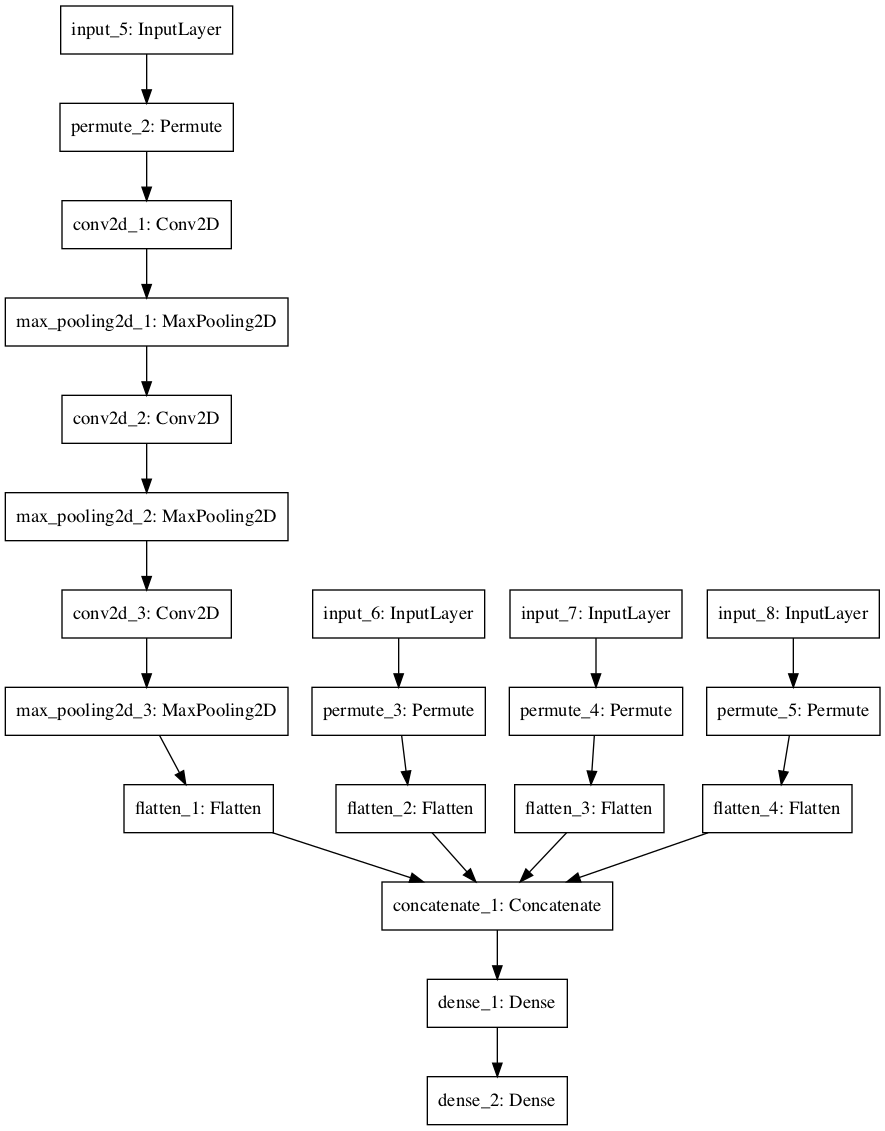
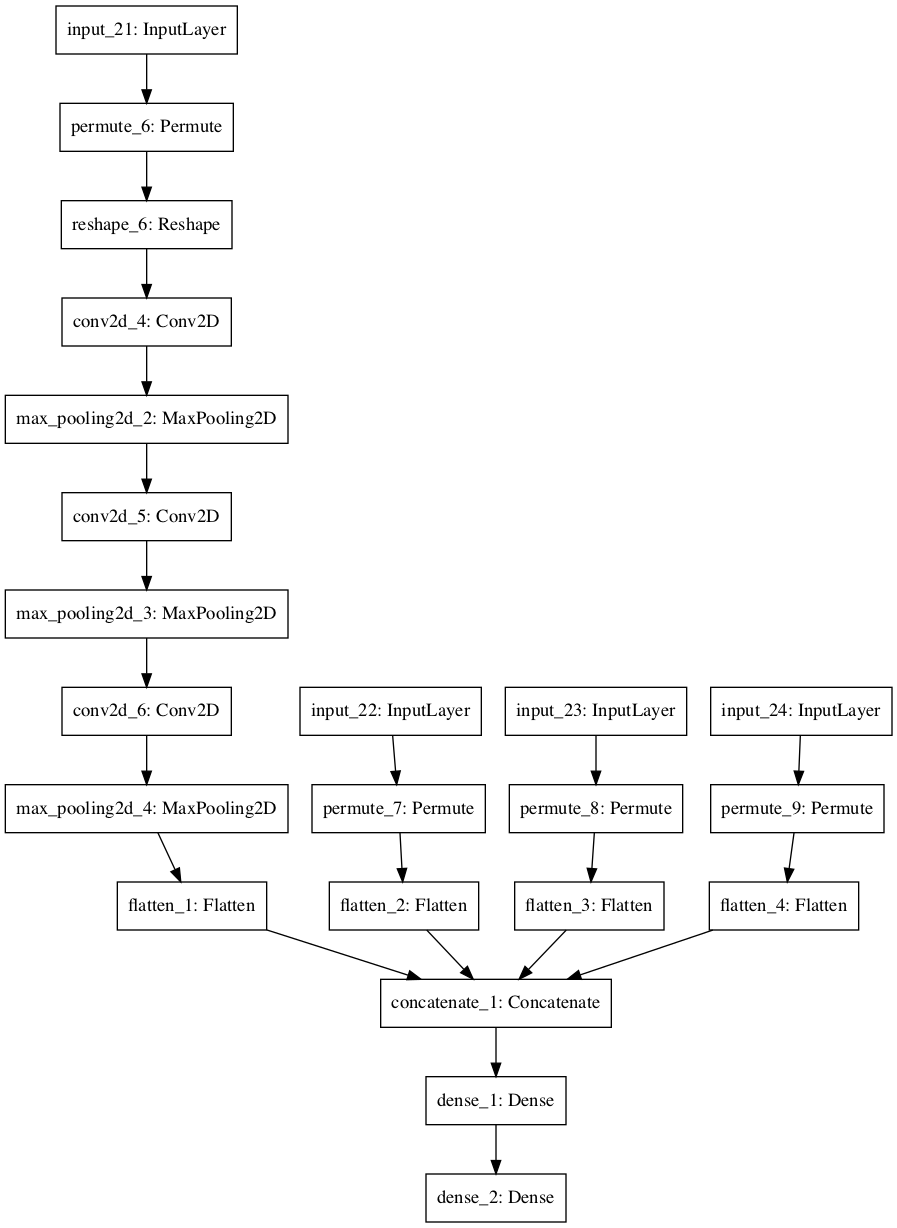
debugging steering

Changed region(s): [[0.0, 0.0, 1.0, 1.0]]

diff --git a/sample_agent.py b/sample_agent.py
@@ -18,10 +18,11 @@ import os
 import time
 
 random.seed(42)
-INPUT_SHAPE = (64,64)
-WINDOW_LENGTH = 2
+INPUT_SHAPE = (4096, 3)
+WINDOW_LENGTH = 1
 run_num = 1
 vision = True
+
 
 class TorcsProcessor(MultiInputProcessor):
 
@@ -29,20 +30,19 @@ class TorcsProcessor(MultiInputProcessor):
         self.nb_inputs = nb_inputs
 
     def process_observation(self, observation):
-
         focus, speedX, speedY, speedZ, opponents, rpm, track, wheelSpinVel, vision = observation
         # image processing
         assert vision.shape == (4096, 3)
-        img = Image.fromarray(vision)
-        img = img.resize(INPUT_SHAPE).convert('L')  # grayscale
-        #        img.tobitmap('thing.bmp')
-        img.save('wtf.png')
-        img_input = np.array(img)
-        assert img_input.shape == INPUT_SHAPE
-        for x in img_input:
-            print(x)
-        time.sleep(20)
-        return img_input, np.array([speedX]), np.array([speedY]), np.array([speedZ])
+        # img = Image.fromarray(vision)
+        # img = img.resize(INPUT_SHAPE).convert('L')  # grayscale
+        # #        img.tobitmap('thing.bmp')
+        # img.save('wtf.png')
+        # img_input = np.array(img)
+        # assert img_input.shape == INPUT_SHAPE
+        # for x in img_input:
+        print(vision)
+
+        return vision, np.array([speedX]), np.array([speedY]), np.array([speedZ])
 
 
 class Agent(object):
@@ -54,28 +54,29 @@ class Agent(object):
     def init_model(self):
 
         img_input = Input(((WINDOW_LENGTH,) + INPUT_SHAPE))
-        xvec_input = Input((WINDOW_LENGTH,1))
-        yvec_input = Input((WINDOW_LENGTH,1))
-        zvec_input = Input((WINDOW_LENGTH,1))
+        xvec_input = Input((WINDOW_LENGTH, 1))
+        yvec_input = Input((WINDOW_LENGTH, 1))
+        zvec_input = Input((WINDOW_LENGTH, 1))
 
-        x1 = Permute((3,2,1))(img_input)
+        x1 = Permute((3, 2, 1))(img_input)
+        x1 = Reshape((64, 64, 3))(x1)
         x1 = Convolution2D(64, (3, 3), activation='relu')(x1)
         x1 = MaxPool2D()(x1)
         x1 = Convolution2D(32, (3, 3), activation='relu')(x1)
         x1 = MaxPool2D()(x1)
         x1 = Convolution2D(16, (3, 3), activation='relu')(x1)
         x1 = MaxPool2D()(x1)
-        x2 = Permute((2,1))(xvec_input)
-        x3 = Permute((2,1))(yvec_input)
-        x4 = Permute((2,1))(zvec_input)
+        x2 = Permute((2, 1))(xvec_input)
+        x3 = Permute((2, 1))(yvec_input)
+        x4 = Permute((2, 1))(zvec_input)
         x1 = Flatten()(x1)
         x2 = Flatten()(x2)
         x3 = Flatten()(x3)
         x4 = Flatten()(x4)
-        x12 = Concatenate(axis=-1)([x1,x2,x3,x4])
+        x12 = Concatenate(axis=-1)([x1, x2, x3, x4])
         x12 = Dense(256, activation='relu')(x12)
         output = Dense(self.dim_action, activation='tanh')(x12)
-        self.model = Model(inputs=[img_input,xvec_input,yvec_input,zvec_input],outputs=[output])
+        self.model = Model(inputs=[img_input, xvec_input, yvec_input, zvec_input], outputs=[output])
         # self.model = Model(inputs=[img_input],outputs=[output])
         plot_model(self.model, to_file='model.png')
         print(self.model.summary())
@@ -84,6 +85,7 @@ class Agent(object):
                 self.model.load_weights('output/weights/torcs/best_run.h5f')
             except:
                 pass
+
 
 # Generate a Torcs environment
 env = TorcsEnv(vision=vision, throttle=False)
